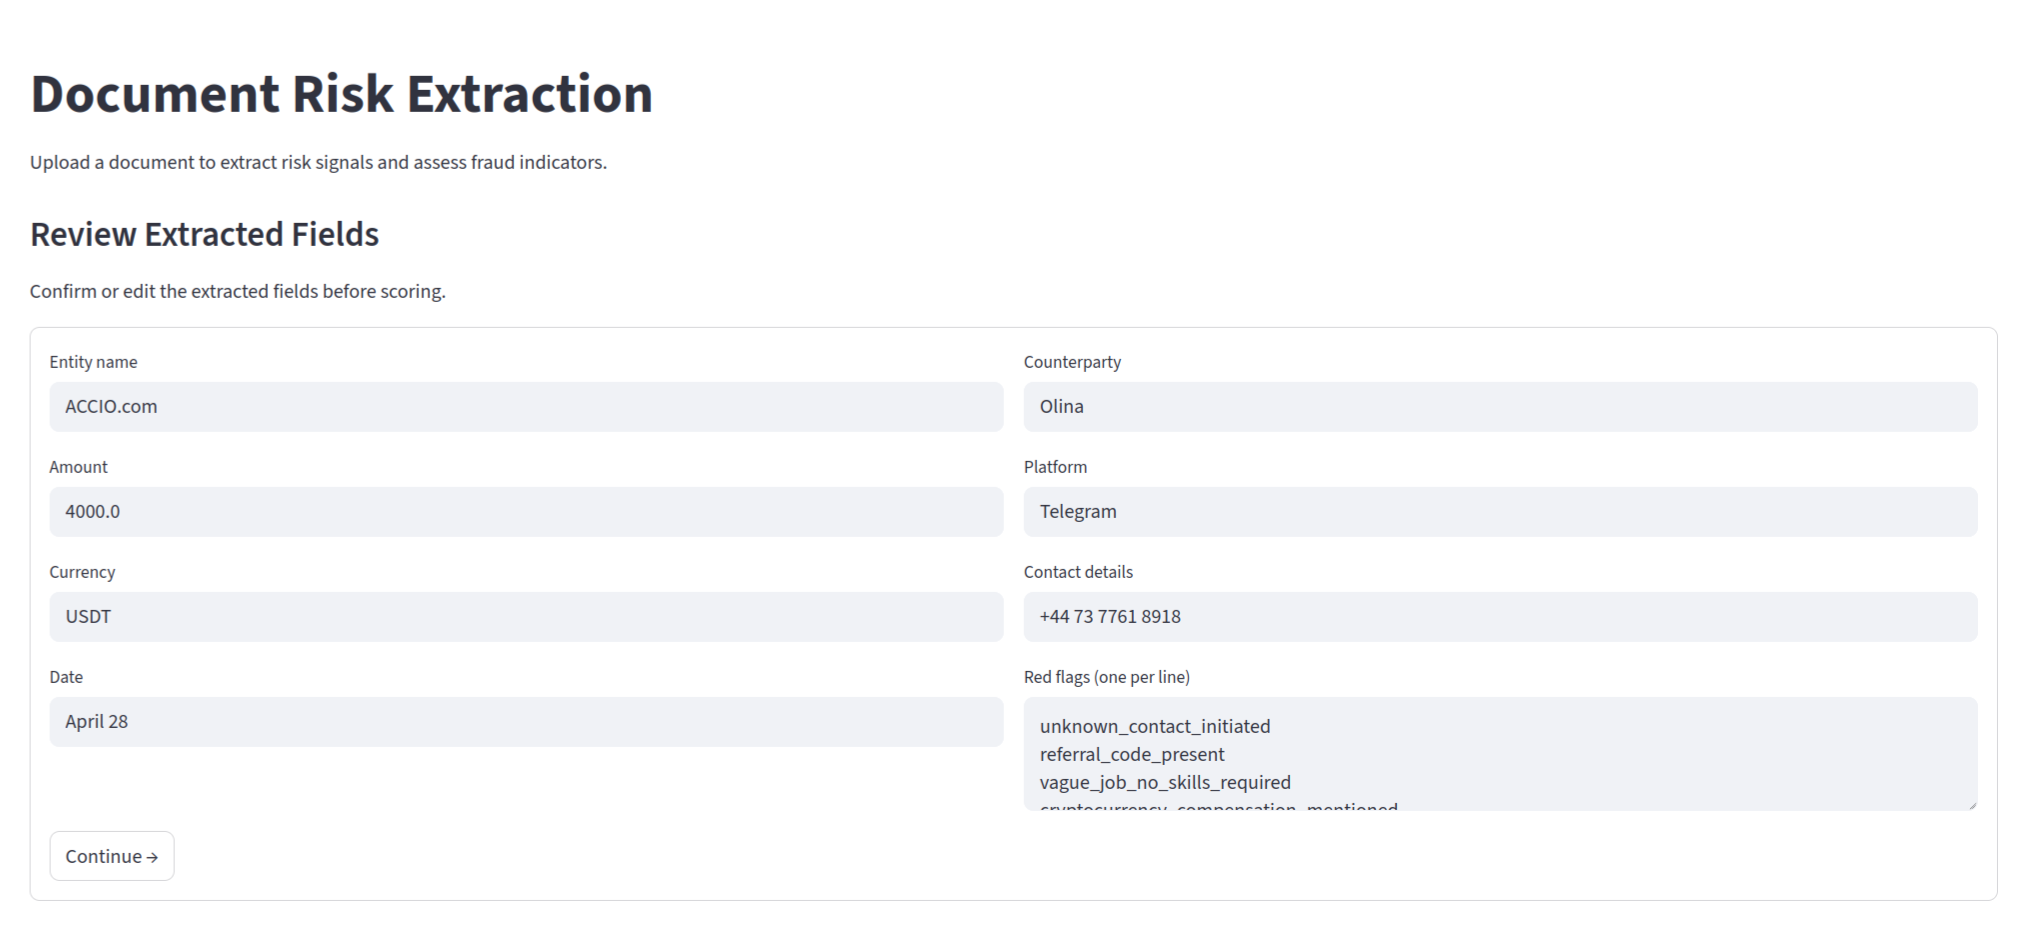
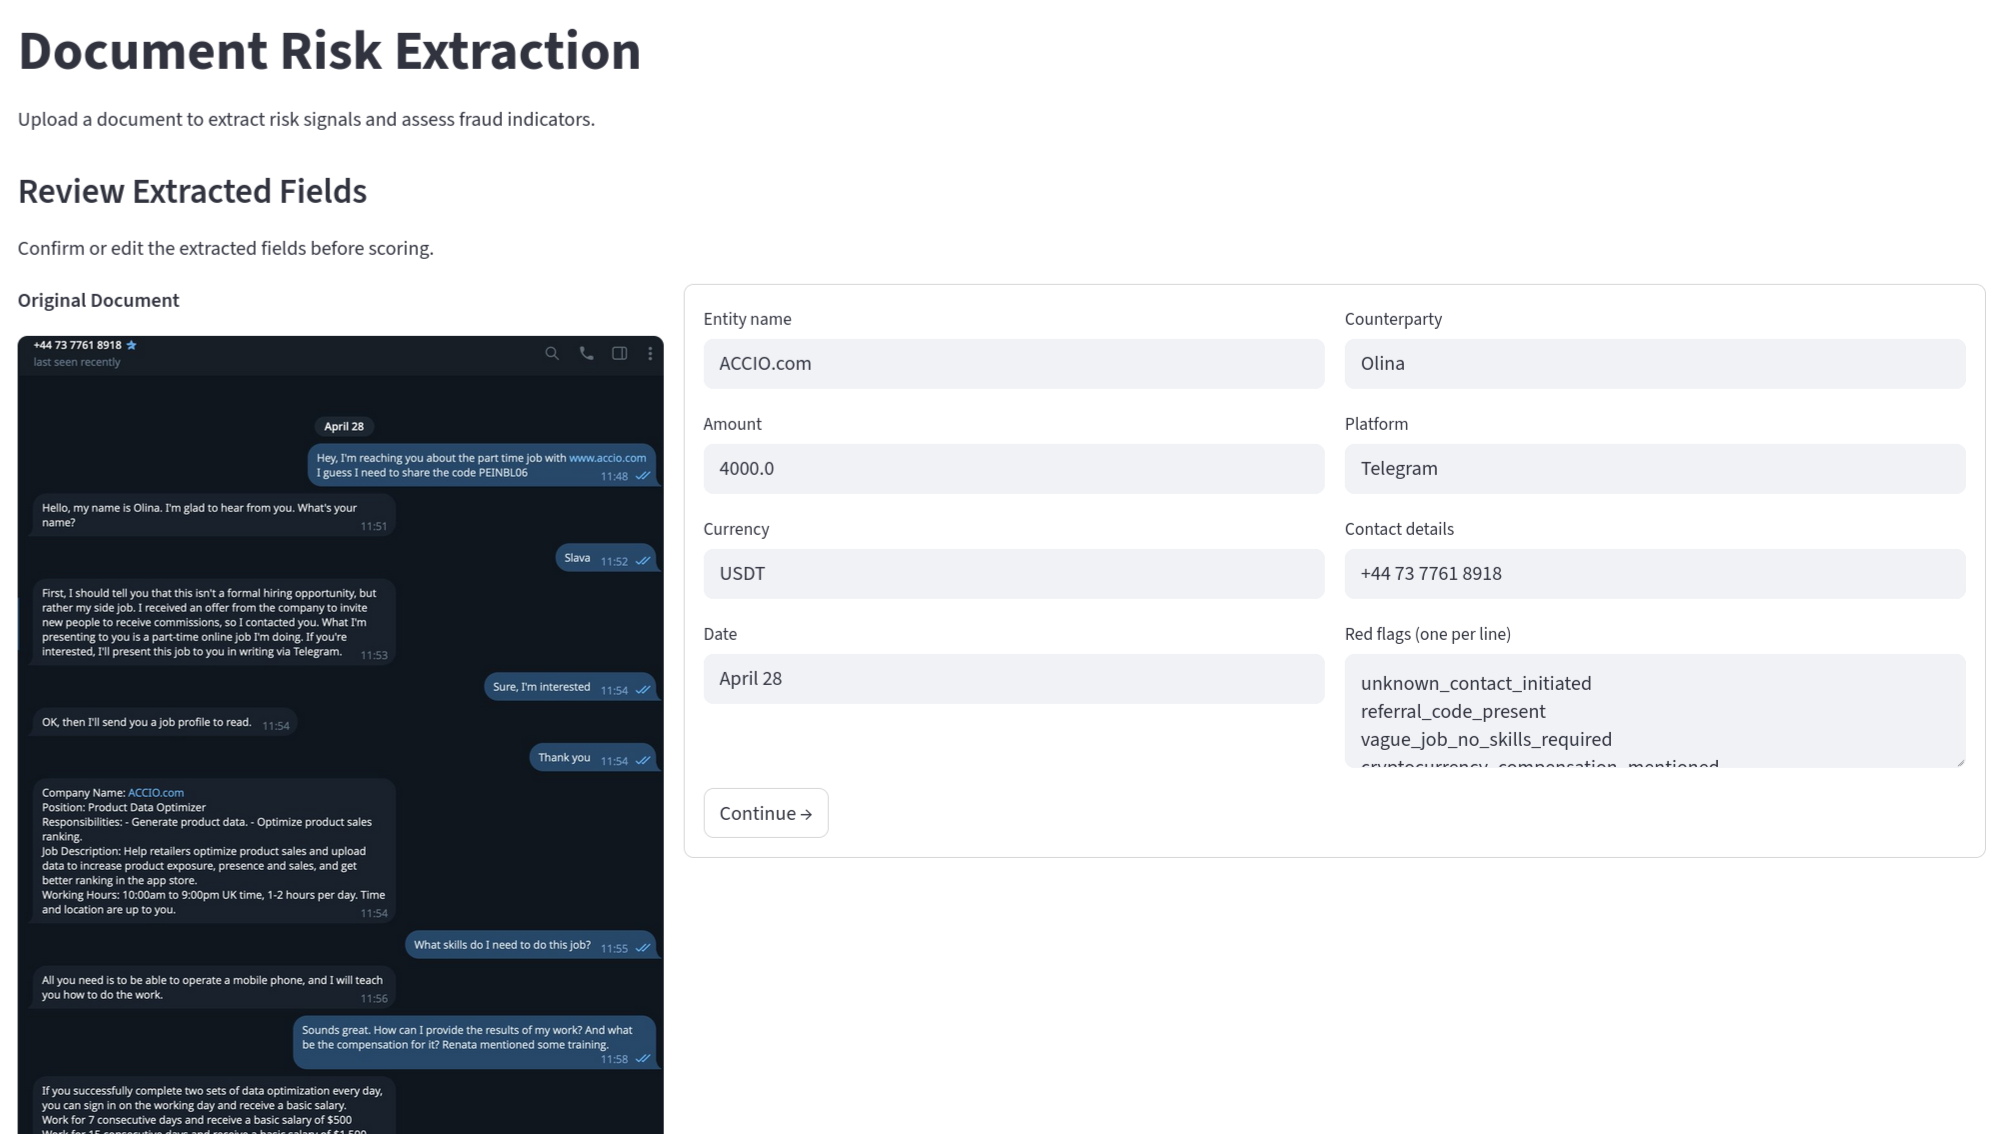
Merge pull request #21 from andmikey/20-fix-hitl
Improve HITL UI

Pull request: Improve HITL UI
* Show example document on the left when correcting fields
* Fix single-agent mode so it uses fixtures if no LLM key present
* Only show that analyst changed fields if fields were actually changed
 
Resolves #20

diff --git a/app.py b/app.py
@@ -13,6 +13,7 @@ Stage machine
   stages without recomputing prior work.
 """
 
+import base64
 import json
 import os
 import traceback
@@ -180,41 +181,49 @@ def _render_fields_form(fields: dict[str, Any]) -> None:
     st.subheader("Review Extracted Fields")
     st.markdown("Confirm or edit the extracted fields before scoring.")
 
-    if ss.extraction_warnings:
-        with st.expander("⚠️ Extraction warnings"):
-            for w in ss.extraction_warnings:
-                st.markdown(f"- `{w}`")
+    img_col, form_col = st.columns([1, 2])
 
-    with st.form("fields_review_form"):
-        col1, col2 = st.columns(2)
-        with col1:
-            entity_name = st.text_input(
-                "Entity name", value=fields.get("entity_name") or ""
-            )
-            amount_raw = st.text_input(
-                "Amount",
-                value=(
-                    str(fields.get("amount"))
-                    if fields.get("amount") is not None
-                    else ""
-                ),
-            )
-            currency = st.text_input("Currency", value=fields.get("currency") or "")
-            date = st.text_input("Date", value=fields.get("date") or "")
-        with col2:
-            counterparty = st.text_input(
-                "Counterparty", value=fields.get("counterparty") or ""
-            )
-            platform = st.text_input("Platform", value=fields.get("platform") or "")
-            contact_details = st.text_input(
-                "Contact details", value=fields.get("contact_details") or ""
-            )
-            red_flags_raw = st.text_area(
-                "Red flags (one per line)",
-                value="\n".join(fields.get("red_flags") or []),
-                height=120,
-            )
-        submitted = st.form_submit_button("Continue →")
+    with img_col:
+        st.markdown("**Original Document**")
+        if ss.image_b64:
+            st.image(base64.b64decode(ss.image_b64), use_container_width=True)
+
+    with form_col:
+        if ss.extraction_warnings:
+            with st.expander("⚠️ Extraction warnings"):
+                for w in ss.extraction_warnings:
+                    st.markdown(f"- `{w}`")
+
+        with st.form("fields_review_form"):
+            col1, col2 = st.columns(2)
+            with col1:
+                entity_name = st.text_input(
+                    "Entity name", value=fields.get("entity_name") or ""
+                )
+                amount_raw = st.text_input(
+                    "Amount",
+                    value=(
+                        str(fields.get("amount"))
+                        if fields.get("amount") is not None
+                        else ""
+                    ),
+                )
+                currency = st.text_input("Currency", value=fields.get("currency") or "")
+                date = st.text_input("Date", value=fields.get("date") or "")
+            with col2:
+                counterparty = st.text_input(
+                    "Counterparty", value=fields.get("counterparty") or ""
+                )
+                platform = st.text_input("Platform", value=fields.get("platform") or "")
+                contact_details = st.text_input(
+                    "Contact details", value=fields.get("contact_details") or ""
+                )
+                red_flags_raw = st.text_area(
+                    "Red flags (one per line)",
+                    value="\n".join(fields.get("red_flags") or []),
+                    height=120,
+                )
+            submitted = st.form_submit_button("Continue →")
 
     if submitted:
         try:
@@ -331,25 +340,33 @@ elif ss.stage == "classifier_review":
         else len(_CATEGORY_OPTIONS) - 1
     )
 
-    with st.form("classifier_review_form"):
-        st.subheader("Classifier Review")
-        st.markdown(
-            f"**Model output:** `{ss.classifier_category}` "
-            f"(confidence: {ss.classifier_confidence:.0%})"
-        )
-        selected_category = st.selectbox(
-            "Confirm or correct category",
-            options=_CATEGORY_OPTIONS,
-            index=current_idx,
-        )
-        confirmed_confidence = st.slider(
-            "Adjusted confidence",
-            min_value=0.0,
-            max_value=1.0,
-            value=ss.classifier_confidence,
-            step=0.05,
-        )
-        submitted = st.form_submit_button("Continue →")
+    img_col, form_col = st.columns([1, 2])
+
+    with img_col:
+        st.markdown("**Original Document**")
+        if ss.image_b64:
+            st.image(base64.b64decode(ss.image_b64), use_container_width=True)
+
+    with form_col:
+        with st.form("classifier_review_form"):
+            st.subheader("Classifier Review")
+            st.markdown(
+                f"**Model output:** `{ss.classifier_category}` "
+                f"(confidence: {ss.classifier_confidence:.0%})"
+            )
+            selected_category = st.selectbox(
+                "Confirm or correct category",
+                options=_CATEGORY_OPTIONS,
+                index=current_idx,
+            )
+            confirmed_confidence = st.slider(
+                "Adjusted confidence",
+                min_value=0.0,
+                max_value=1.0,
+                value=ss.classifier_confidence,
+                step=0.05,
+            )
+            submitted = st.form_submit_button("Continue →")
 
     if submitted:
         ss.analyst_category = selected_category

diff --git a/pipeline/extract.py b/pipeline/extract.py
@@ -1,16 +1,26 @@
 """LLM extraction and parsing logic."""
 
+import hashlib
 import json
 import os
 import time
+from pathlib import Path
 from typing import Any
 
 from openai import OpenAI
 from pydantic import ValidationError
 
 from pipeline import flags
-from pipeline.constants import LLM_MODEL_NAME
+from pipeline.constants import LOCAL_DEV_MODE, LLM_MODEL_NAME
 from pipeline.schemas import ExtractedFields, ExtractionResult, ProcessingMetadata
+
+# ---------------------------------------------------------------------------
+# Fixture paths (shared with LocalFixtureBackend)
+# ---------------------------------------------------------------------------
+
+_FIXTURES_DIR = Path(__file__).parent.parent / "tests" / "fixtures"
+_CLASSIFIER_FIXTURE = _FIXTURES_DIR / "classifier_fixture.json"
+_EXTRACTOR_FIXTURE = _FIXTURES_DIR / "extractor_fixture.json"
 
 
 class LLMCallError(Exception):
@@ -72,6 +82,30 @@ category assignment. This is your self-assessed confidence, not a calibrated pro
     return system_prompt, user_prompt
 
 
+def _fixture_lookup(data: dict, image_b64: str) -> dict:
+    """Return the fixture entry for this image, falling back to 'default'."""
+    prefix = hashlib.sha256(image_b64.encode()).hexdigest()[:12]
+    return dict(data.get(prefix, data["default"]))
+
+
+def _call_llm_fixture(image_b64: str) -> tuple[dict, str, int]:
+    """Return a combined classifier+extractor response from fixture files."""
+    with open(_CLASSIFIER_FIXTURE) as f:
+        classifier_data = json.load(f)
+    with open(_EXTRACTOR_FIXTURE) as f:
+        extractor_data = json.load(f)
+
+    classifier_entry = _fixture_lookup(classifier_data, image_b64)
+    extractor_entry = _fixture_lookup(extractor_data, image_b64)
+
+    combined = {
+        "category": classifier_entry.get("category", "other"),
+        "category_confidence": classifier_entry.get("category_confidence", 0.0),
+        "extracted_fields": extractor_entry,
+    }
+    return combined, "local_fixture", 0
+
+
 def call_llm(image_b64: str) -> tuple[dict, str, int]:
     """Call LLM with image and return parsed response.
 
@@ -84,6 +118,9 @@ def call_llm(image_b64: str) -> tuple[dict, str, int]:
     Raises:
         LLMCallError: If call fails after retries
     """
+    if LOCAL_DEV_MODE:
+        return _call_llm_fixture(image_b64)
+
     api_key = os.getenv("OPENROUTER_API_KEY")
     if not api_key:
         raise LLMCallError("OPENROUTER_API_KEY not set")

diff --git a/tests/test_graph.py b/tests/test_graph.py
@@ -230,12 +230,32 @@ class TestAssembleOutput:
         interventions = output.processing_metadata.analyst_interventions
         assert any("category changed" in i for i in interventions)
 
-    def test_fields_review_recorded_in_interventions(self):
+    def test_fields_review_recorded_in_interventions_when_changed(self):
+        """Intervention is recorded only when analyst actually edits a field."""
+        g = _fresh_graph()
+        fid = str(uuid.uuid4())
+        state = start_graph(g, file_id=fid, image_b64="test_image_b64")
+        state = resume_after_classifier(
+            g,
+            file_id=fid,
+            analyst_category=state.get("classifier_category", "other"),
+            analyst_confidence=float(state.get("classifier_confidence") or 0.0),
+        )
+        # Edit one field so analyst_fields differs from extracted_fields
+        modified = dict(state.get("extracted_fields") or {})
+        modified["entity_name"] = "__analyst_edit__"
+        state = resume_after_fields(g, file_id=fid, analyst_fields=modified)
+        output = assemble_output(state, fid)
+        interventions = output.processing_metadata.analyst_interventions
+        assert any("fields reviewed" in i for i in interventions)
+
+    def test_fields_review_not_recorded_when_unchanged(self):
+        """No intervention is recorded when the analyst confirms without edits."""
         fid = str(uuid.uuid4())
         state = _run_full(file_id=fid)
         output = assemble_output(state, fid)
         interventions = output.processing_metadata.analyst_interventions
-        assert any("fields reviewed" in i for i in interventions)
+        assert not any("fields reviewed" in i for i in interventions)
 
     def test_schema_matches_pipeline_output(self):
         """PipelineOutput.model_dump() must be JSON-serialisable without errors."""

diff --git a/pipeline/agent/graph.py b/pipeline/agent/graph.py
@@ -253,7 +253,9 @@ def assemble_output(state: dict[str, Any], file_id: str):
                 f"category changed: {orig} → {state['analyst_category']}"
             )
     if state.get("fields_reviewed") and state.get("analyst_fields") is not None:
-        analyst_interventions.append("extracted fields reviewed by analyst")
+        orig_fields = state.get("extracted_fields") or {}
+        if state["analyst_fields"] != orig_fields:
+            analyst_interventions.append("extracted fields reviewed by analyst")
 
     timings: dict[str, int] = state.get("step_timings") or {}
     total_latency = sum(timings.values())